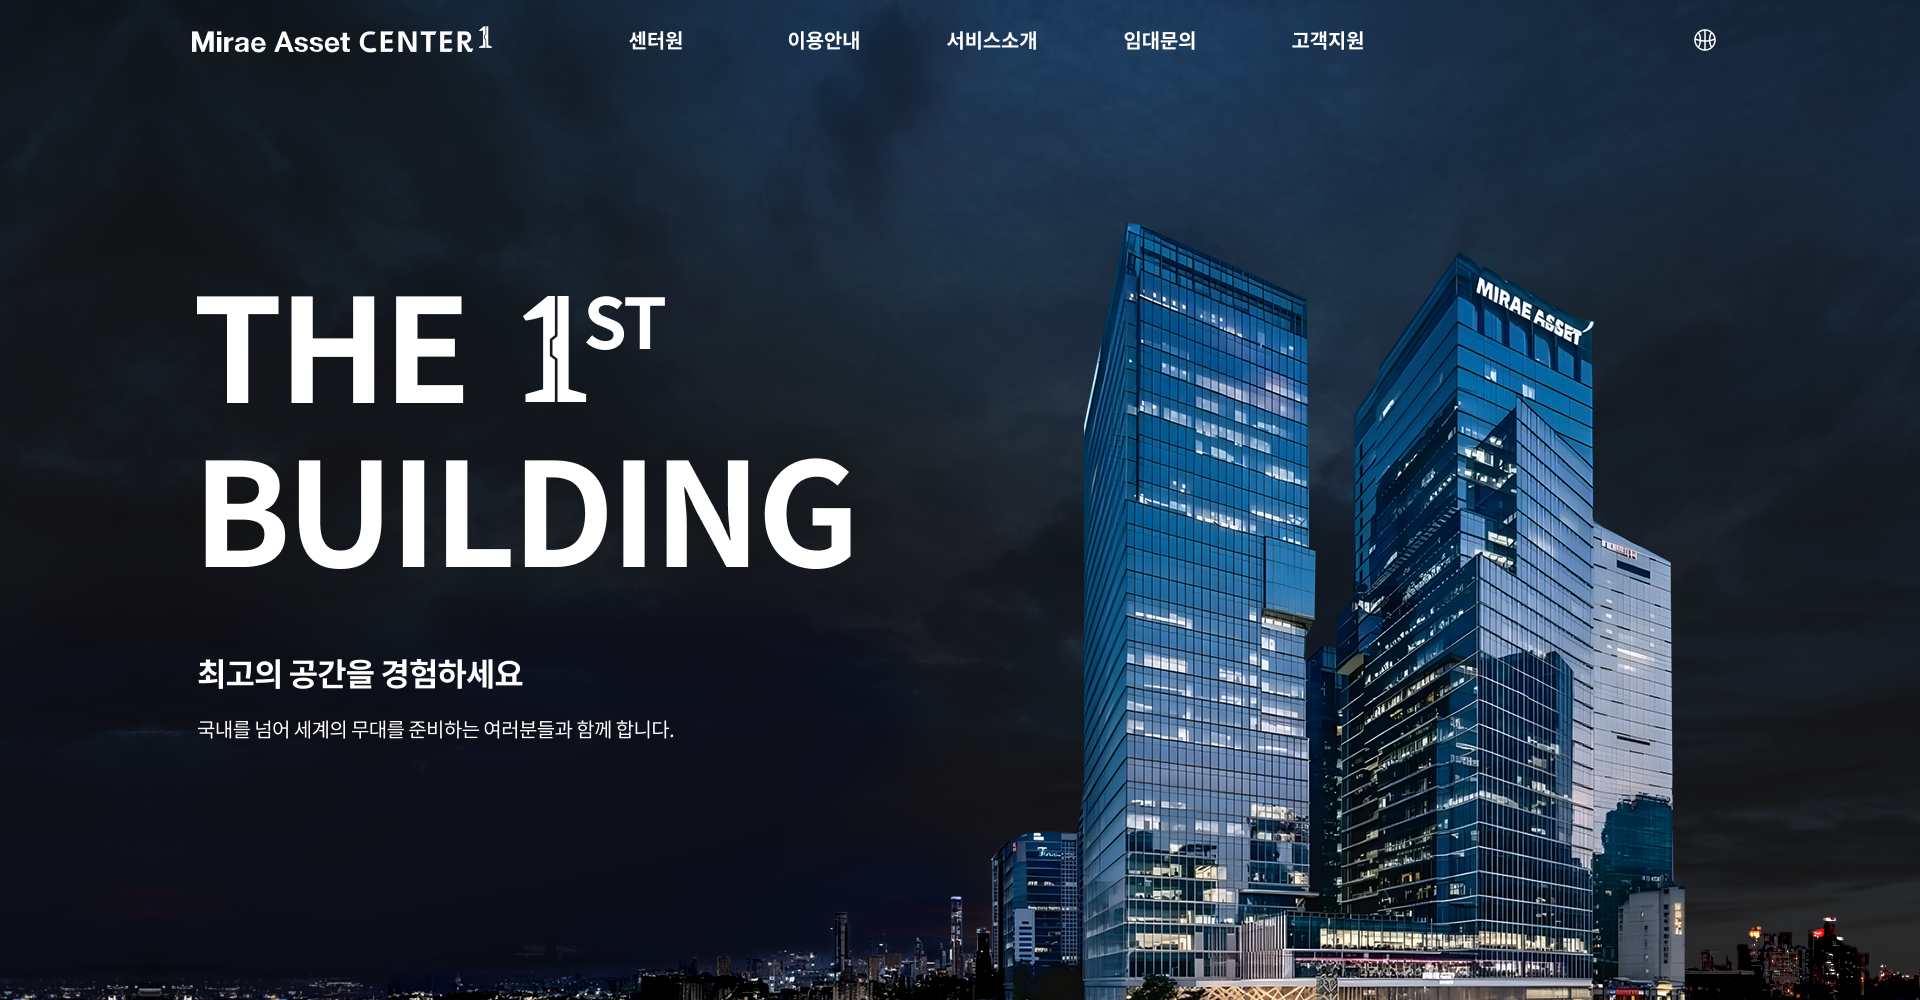
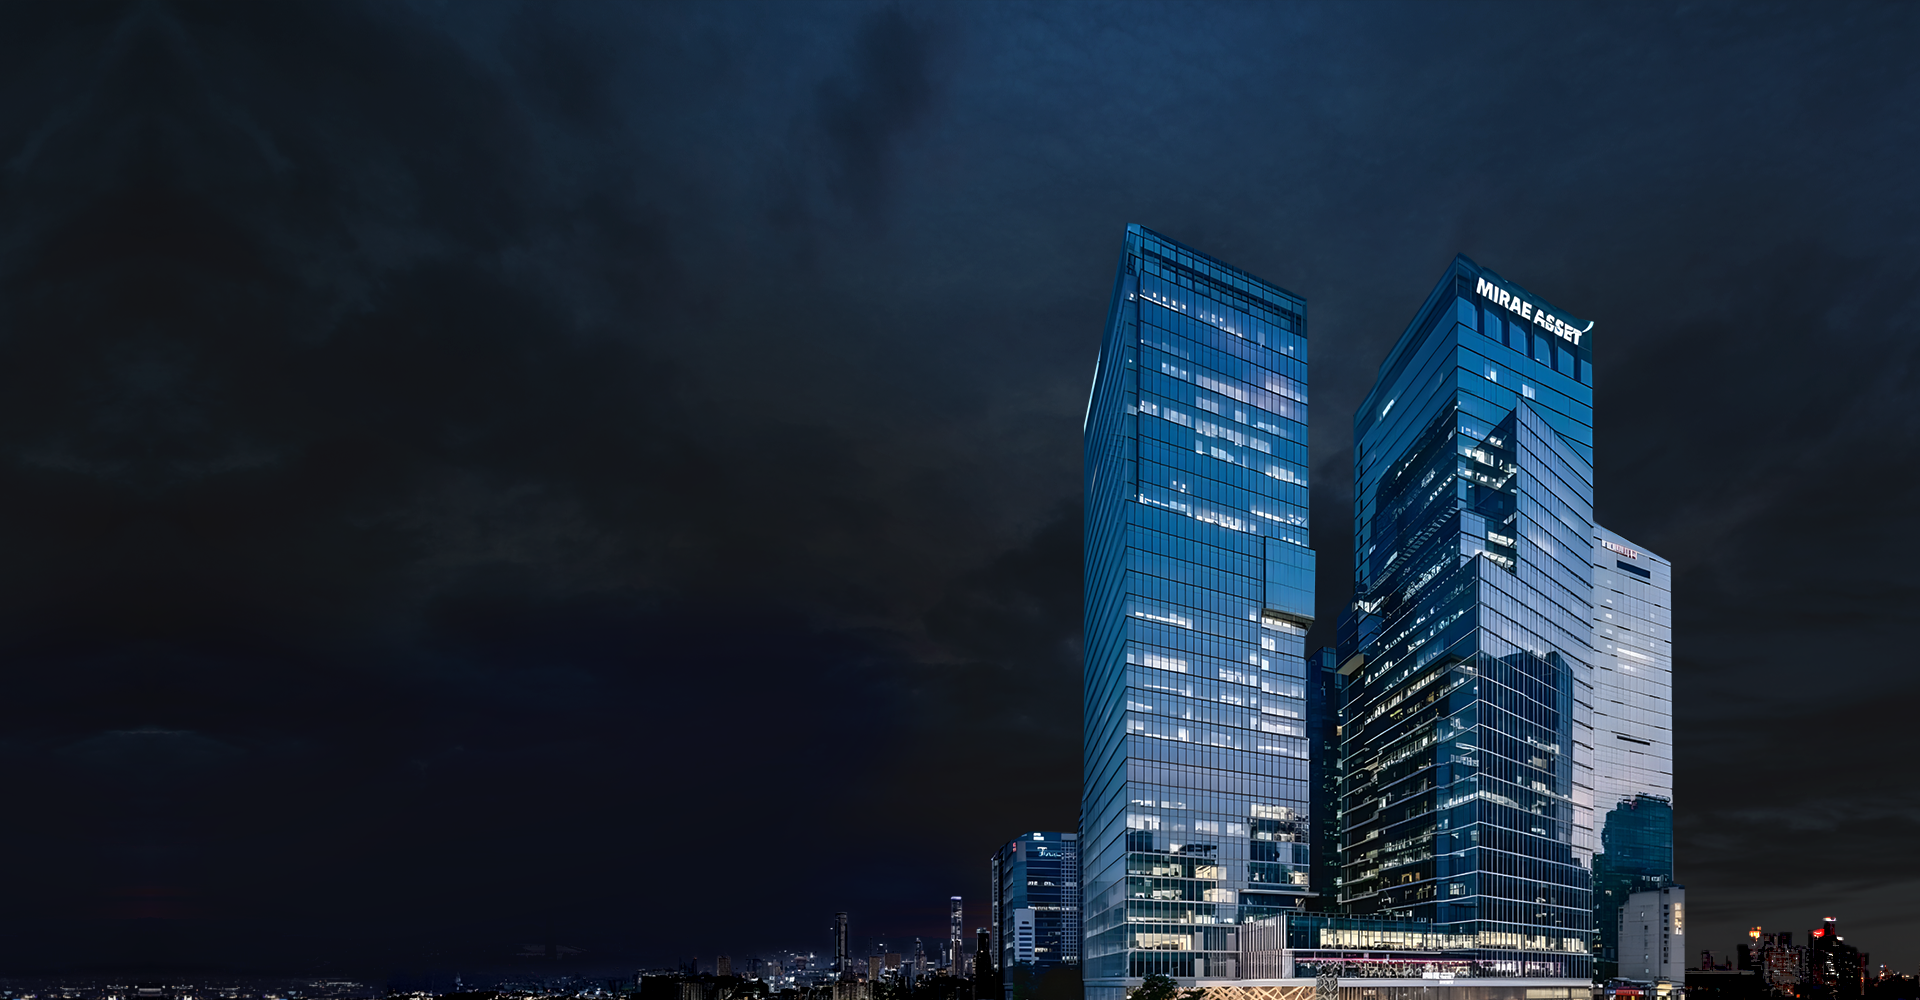
feat: Improve hero section responsiveness

diff --git a/src/components/layouts/main-nav.tsx b/src/components/layouts/main-nav.tsx
@@ -2,136 +2,39 @@
 
 import * as React from "react";
 import Link from "next/link";
-import type { MainNavItem } from "@/types";
 
-import { siteConfig } from "@/config/site";
-import { cn } from "@/lib/utils";
-import {
-  NavigationMenu,
-  NavigationMenuContent,
-  NavigationMenuItem,
-  NavigationMenuLink,
-  NavigationMenuList,
-  NavigationMenuTrigger,
-  navigationMenuTriggerStyle,
-} from "@/components/ui/navigation-menu";
 import { Icons } from "@/components/icons";
+import { GlobeIcon } from "@radix-ui/react-icons";
 
-interface MainNavProps {
-  items?: MainNavItem[];
-}
-
-export function MainNav({ items }: MainNavProps) {
+export function MainNav() {
   return (
-    <div className="hidden gap-6 lg:flex">
-      <Link href="/" className="hidden items-center space-x-2 lg:flex">
-        <Icons.logo className="" aria-hidden="true" />
-        <span className="sr-only">Home</span>
-      </Link>
-      <NavigationMenu>
-        <NavigationMenuList>
-          {items?.[0]?.items ? (
-            <NavigationMenuItem>
-              <NavigationMenuTrigger className="h-auto">
-                {items[0].title}
-              </NavigationMenuTrigger>
-              <NavigationMenuContent>
-                <ul className="grid gap-3 p-6 md:w-[400px] lg:w-[500px] lg:grid-cols-[.75fr_1fr]">
-                  <li className="row-span-3">
-                    <NavigationMenuLink asChild>
-                      <Link
-                        href="/"
-                        className="flex size-full select-none flex-col justify-end rounded-md bg-gradient-to-b from-muted/50 to-muted p-6 no-underline outline-none focus:shadow-md"
-                      >
-                        <Icons.logo className="size-6" aria-hidden="true" />
-                        <div className="mb-2 mt-4 text-lg font-medium">
-                          {siteConfig.name}
-                        </div>
-                        <p className="text-sm leading-tight text-muted-foreground">
-                          {siteConfig.description}
-                        </p>
-                        <span className="sr-only">Home</span>
-                      </Link>
-                    </NavigationMenuLink>
-                  </li>
-                  {items[0].items.map((item) => (
-                    <ListItem
-                      key={item.title}
-                      title={item.title}
-                      href={item.href}
-                    >
-                      {item.description}
-                    </ListItem>
-                  ))}
-                </ul>
-              </NavigationMenuContent>
-            </NavigationMenuItem>
-          ) : null}
-          {items
-            ?.filter((item) => item.title !== items[0]?.title)
-            .map((item) =>
-              item?.items ? (
-                <NavigationMenuItem key={item.title}>
-                  <NavigationMenuTrigger className="h-auto capitalize">
-                    {item.title}
-                  </NavigationMenuTrigger>
-                  <NavigationMenuContent>
-                    <ul className="grid w-[400px] gap-3 p-4 md:w-[500px] md:grid-cols-2 lg:w-[600px]">
-                      {item.items.map((item) => (
-                        <ListItem
-                          key={item.title}
-                          title={item.title}
-                          href={item.href}
-                        >
-                          {item.description}
-                        </ListItem>
-                      ))}
-                    </ul>
-                  </NavigationMenuContent>
-                </NavigationMenuItem>
-              ) : (
-                item.href && (
-                  <NavigationMenuItem key={item.title}>
-                    <Link href={item.href} legacyBehavior passHref>
-                      <NavigationMenuLink
-                        className={cn(navigationMenuTriggerStyle(), "h-auto")}
-                      >
-                        {item.title}
-                      </NavigationMenuLink>
-                    </Link>
-                  </NavigationMenuItem>
-                )
-              )
-            )}
-        </NavigationMenuList>
-      </NavigationMenu>
+    <div className="hidden gap-6 w-full lg:flex lg:justify-between my-8">
+      <div className="flex gap-24">
+        <Link href="/" className="hidden items-center space-x-2 lg:flex">
+          <Icons.logo className="size-50" aria-hidden="true" />
+          <span className="sr-only">Home</span>
+        </Link>
+        <ul className="flex gap-24">
+          <li>
+            <Link href="/">센터원</Link>
+          </li>
+          <li>
+            <Link href="/">이용안내</Link>
+          </li>
+          <li>
+            <Link href="/">서비스소개</Link>
+          </li>
+          <li>
+            <Link href="/">임대문의</Link>
+          </li>
+          <li>
+            <Link href="/">고객지원</Link>
+          </li>
+        </ul>
+      </div>
+      <div>
+        <GlobeIcon height={24} width={24} />
+      </div>
     </div>
   );
 }
-
-const ListItem = React.forwardRef<
-  React.ElementRef<"a">,
-  React.ComponentPropsWithoutRef<"a">
->(({ className, title, children, href, ...props }, ref) => {
-  return (
-    <li>
-      <NavigationMenuLink asChild>
-        <Link
-          ref={ref}
-          href={String(href)}
-          className={cn(
-            "block select-none space-y-1 rounded-md p-3 leading-none no-underline outline-none transition-colors hover:bg-accent hover:text-accent-foreground focus:bg-accent focus:text-accent-foreground",
-            className
-          )}
-          {...props}
-        >
-          <div className="text-sm font-medium leading-none">{title}</div>
-          <p className="line-clamp-2 text-sm leading-snug text-muted-foreground">
-            {children}
-          </p>
-        </Link>
-      </NavigationMenuLink>
-    </li>
-  );
-});
-ListItem.displayName = "ListItem";

diff --git a/src/components/layouts/site-header.tsx b/src/components/layouts/site-header.tsx
@@ -9,14 +9,14 @@ import { Icons } from "../icons";
 export function SiteHeader() {
   return (
     <header className="relative w-full h-[75vh] bg-transparent">
-      <div className="absolute top-0 z-50 container flex h-16 items-center">
-        <MainNav items={siteConfig.mainNav} />
+      <div className="relative top-0 z-50 w-full h-16 flex items-center container mx-auto">
+        <MainNav />
         <MobileNav items={siteConfig.mainNav} />
       </div>
 
       <section className="absolute top-0 z-10 w-full h-full overflow-hidden">
         <picture>
-          <source media="(max-width: 600px)" srcSet="/images/hero-small.png" />
+          <source media="(max-width: 640px)" srcSet="/images/hero-small.png" />
           {/* <source media="(max-width: 1024px)" srcSet="images/hero-medium.png" /> */}
           <source media="(min-width: 1025px)" srcSet="/images/hero-large.png" />
           <img
@@ -28,22 +28,24 @@ export function SiteHeader() {
 
         <div className="absolute inset-0 bg-black opacity-30"></div>
 
-        <div className="absolute bottom-16 left-7 text-white ">
-          <h1 className="text-6xl font-heading mb-8 flex flex-col">
-            <span className="inline-flex">
-              THE <Icons.first className="ml-4" />
-            </span>
-            <span>BUILDING</span>
-          </h1>
-          <div>
-            <p className="text-lg font-bold mb-2">최고의 공간을 경험하세요</p>
-            <p className="font-light text-xs">
-              국내를 넘어 세계의 무대를 준비하는 여러분들과 함께 합니다.
-            </p>
-          </div>
-        </div>
         <div></div>
       </section>
+      <div className="relative z-50 h-full text-red flex flex-col justify-end pb-36 mx-8 lg:pb-0 lg:justify-center lg:container lg:mx-auto">
+        <h1 className="text-6xl font-heading mb-8 flex flex-col lg:text-9xl">
+          <span className="inline-flex mb-4">
+            THE <Icons.first className="ml-4 lg:ml-8 lg:size-32 lg:-mt-2" />
+          </span>
+          <span>BUILDING</span>
+        </h1>
+        <div>
+          <p className="text-lg font-bold mb-2 lg:text-2xl">
+            최고의 공간을 경험하세요
+          </p>
+          <p className="font-light text-xs lg:text-lg">
+            국내를 넘어 세계의 무대를 준비하는 여러분들과 함께 합니다.
+          </p>
+        </div>
+      </div>
     </header>
   );
 }

diff --git a/src/components/layouts/mobile-nav.tsx b/src/components/layouts/mobile-nav.tsx
@@ -30,7 +30,7 @@ export function MobileNav({ items }: MobileNavProps) {
   if (isDesktop) return null;
 
   return (
-    <div className="flex justify-between items-center w-full px-8">
+    <div className="flex justify-between items-center w-full mx-4">
       <Link href="/" className="items-center space-x-2 lg:hidden">
         <Icons.logo className="size-50" aria-hidden="true" />
         <span className="sr-only">Home</span>

diff --git a/src/components/icons.tsx b/src/components/icons.tsx
@@ -5,6 +5,7 @@ import {
   HomeIcon,
   ImageIcon,
   HamburgerMenuIcon,
+  GlobeIcon,
 } from "@radix-ui/react-icons";
 
 export type IconProps = React.HTMLAttributes<SVGElement>;
@@ -402,4 +403,5 @@ export const Icons = {
   settings: GearIcon,
   chevronLeft: ChevronLeftIcon,
   menu: HamburgerMenuIcon,
+  globe: GlobeIcon,
 };
